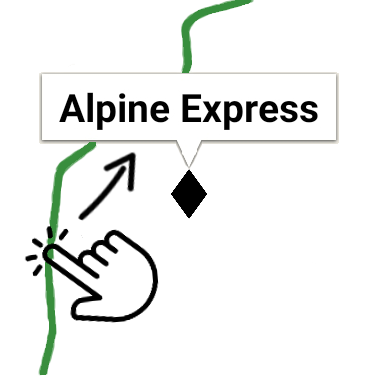
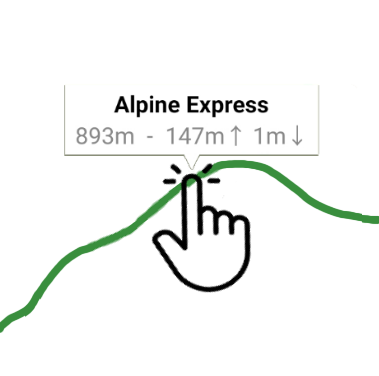
Update touch trails instructions

Changed region(s): [[0.0, 0.0, 1.0, 1.0]]

diff --git a/App.js b/App.js
@@ -39,7 +39,7 @@ const slides = [
   {
     key: "Tap",
     title: "Tip: Tap on Trails",
-    text: "Tap on trails or difficulty markers to see the trail name.",
+    text: "Tap on trails or difficulty markers to see detailed trail info.",
     image: require("./assets/touchTrail.png"),
     bg: "#B030DE",
   },
